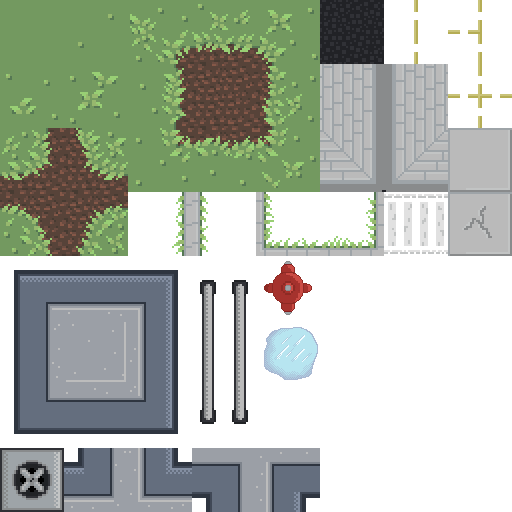
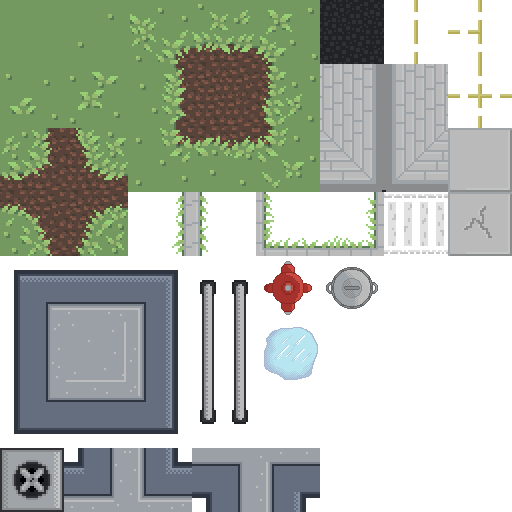
Interactable Objects 1
Laid out the framework for interactable game objects. Still need to implement the actual placement of game entities to match the detected game objects and tie in the player interaction input to the game object actions.

Changed region(s): [[0.625, 0.5, 0.75, 0.625]]

diff --git a/res/maps/Grave Wave City.tsx b/res/maps/Grave Wave City.tsx
@@ -1,0 +1,4 @@
+<?xml version="1.0" encoding="UTF-8"?>
+<tileset version="1.2" tiledversion="1.2.1" name="Grave Wave City" tilewidth="64" tileheight="64" tilecount="64" columns="8">
+ <image source="../images/new/grave_wave_tiles.png" width="512" height="512"/>
+</tileset>

diff --git a/src/com/gzsr/world/Interactions.java b/src/com/gzsr/world/Interactions.java
@@ -1,0 +1,51 @@
+package com.gzsr.world;
+
+import com.gzsr.Globals;
+import com.gzsr.misc.Pair;
+import com.gzsr.objects.crafting.Resources;
+import com.gzsr.objects.items.ResourceDrop;
+import com.gzsr.objects.weapons.Explosion;
+import com.gzsr.states.GameState;
+
+public enum Interactions {
+	NONE((gs, pos, cTime) -> {}),
+
+	ONE_RANDOM_RESOURCE((gs, pos, cTime) -> {
+		// Create a random resource item and spawn it.
+		int resource = Globals.rand.nextInt(6);
+		ResourceDrop drop = new ResourceDrop(Resources.getIconName(resource),
+											 Resources.getName(resource),
+											 resource, 1, pos, cTime);
+		gs.getLevel().addEntity("resource", drop);
+	}),
+
+	RANDOM_RESOURCES((gs, pos, cTime) -> {
+		// Spawn several random resource drops.
+		for(int i = 0; i < (Globals.rand.nextInt(5) + 1); i++) {
+			int resource = Globals.rand.nextInt(6);
+			ResourceDrop drop = new ResourceDrop(Resources.getIconName(resource),
+					 							 Resources.getName(resource),
+					 							 resource, 1, pos, cTime);
+			gs.getLevel().addEntity("resource", drop);
+		}
+	}),
+
+	EXPLOSION((gs, pos, cTime) -> {
+		// Spawn an explosion at this position.
+		double dmg = (Globals.rand.nextInt(50) + 51);
+		Explosion exp = new Explosion(Explosion.Type.NORMAL, "GZS_Explosion",
+				  					  new Pair<Float>(pos), dmg,
+				  					  false, 10.0f, 128.0f, cTime);
+		gs.getLevel().addEntity("explosion", exp);
+	});
+
+	private Interaction action;
+
+	Interactions(Interaction action_) {
+		this.action = action_;
+	}
+
+	public void execute(GameState gs, Pair<Float> pos, long cTime) {
+		action.execute(gs, pos, cTime);
+	}
+}

diff --git a/src/com/gzsr/tmx/TMap.java b/src/com/gzsr/tmx/TMap.java
@@ -11,6 +11,8 @@ import org.newdawn.slick.state.BasicGameState;
 
 import com.gzsr.AssetManager;
 import com.gzsr.entities.Entity;
+import com.gzsr.world.GameObject;
+import com.gzsr.world.Level;
 
 public class TMap implements Entity {
 	private List<TLayer> layers;
@@ -22,6 +24,14 @@ public class TMap implements Entity {
 		} catch(IndexOutOfBoundsException ioo) {
 			return null;
 		}
+	}
+	public TLayer getLayerByName(String name) {
+		for(int i = 0; i < layers.size(); i++) {
+			TLayer layer = layers.get(i);
+			if(layer.getLayerName().equals(name)) return layer;
+		}
+
+		return null;
 	}
 	public void addLayer(TLayer layer) { layers.add(layer); }
 
@@ -103,6 +113,27 @@ public class TMap implements Entity {
 		} catch(SlickException se) {
 			System.err.println("ERROR: Could not construct map!");
 			se.printStackTrace();
+		}
+	}
+
+	/**
+	 * Iterate through all tiles on the objects layer and match TIDs to game objects to be placed in the level.
+	 * @param level The level to place the objects in.
+	 */
+	public void placeObjects(Level level) {
+		TLayer objects = getLayerByName("Objects");
+		if(objects != null) {
+			TTile [][] tiles = objects.getTiles();
+			for(int y = 0; y < mapHeight; y++) {
+				for(int x = 0; x < mapWidth; x++) {
+					TTile tile = tiles[y][x];
+					GameObject.Type type = GameObject.getTypeByTID(tile.getTID());
+					if(type != GameObject.Type.NONE) {
+						// Place game object at this position according to the found type.
+						// TODO: Implement this.
+					}
+				}
+			}
 		}
 	}
 

diff --git a/src/com/gzsr/world/GameObject.java b/src/com/gzsr/world/GameObject.java
@@ -1,0 +1,69 @@
+package com.gzsr.world;
+
+import org.newdawn.slick.Graphics;
+import org.newdawn.slick.state.BasicGameState;
+
+import com.gzsr.entities.Entity;
+import com.gzsr.gfx.Layers;
+
+public class GameObject implements Entity {
+	public enum Type {
+		// TODO: Add to this as more game objects are created.
+		NONE(Interactions.NONE),
+		TRASH_CAN(Interactions.ONE_RANDOM_RESOURCE),
+		FIRE_HYDRANT(Interactions.NONE);
+
+		private Interactions interaction;
+		public Interactions getInteraction() { return interaction; }
+
+		Type(Interactions interaction_) {
+			this.interaction = interaction_;
+		}
+	}
+
+	private Type type;
+	public Interactions getInteraction() { return type.getInteraction(); }
+
+	public GameObject(Type type_) {
+		this.type = type_;
+	}
+
+	@Override
+	public void update(BasicGameState gs, long cTime, int delta) {
+		// Not needed.
+	}
+
+	@Override
+	public void render(Graphics g, long cTime) {
+		// Not needed.
+	}
+
+	public static Type getTypeByTID(int tid) {
+		// TODO: Add to this as more game objects are created.
+		switch(tid) {
+			case 37: return Type.FIRE_HYDRANT;
+			case 38: return Type.TRASH_CAN;
+			default: return Type.NONE;
+		}
+	}
+
+	@Override
+	public String getName() {
+		return "Game Object";
+	}
+
+	@Override
+	public String getTag() {
+		return "object";
+	}
+
+	@Override
+	public String getDescription() {
+		return "Game Object";
+	}
+
+	@Override
+	public int getLayer() {
+		return Layers.NONE.val();
+	}
+}

diff --git a/src/com/gzsr/tmx/TParser.java b/src/com/gzsr/tmx/TParser.java
@@ -34,6 +34,7 @@ public class TParser {
 				Node layer = layers.item(i);
 				if(layer.getNodeType() == Node.ELEMENT_NODE) {
 					Element element = (Element) layer;
+					String name = element.getAttribute("name");
 					NodeList dataList = element.getElementsByTagName("data");
 					for(int j = 0; j < dataList.getLength(); j++) {
 						Node data = dataList.item(j);
@@ -42,7 +43,7 @@ public class TParser {
 							String d = e_data.getTextContent().replace("\n", "");
 							String [] gids = d.split(",");
 
-							TLayer tlay = createLayer(gids, width, height);
+							TLayer tlay = createLayer(name, gids, width, height);
 							map.addLayer(tlay);
 						}
 					}
@@ -59,8 +60,8 @@ public class TParser {
 		return null;
 	}
 
-	private static TLayer createLayer(String [] gids, int mw, int mh) {
-		TLayer layer = new TLayer(mw, mh);
+	private static TLayer createLayer(String layerName, String [] gids, int mw, int mh) {
+		TLayer layer = new TLayer(layerName, mw, mh);
 
 		for(int i = 0; i < gids.length; i++) {
 			long gid = Long.parseLong(gids[i]);

diff --git a/src/com/gzsr/world/Level.java b/src/com/gzsr/world/Level.java
@@ -20,6 +20,7 @@ import com.gzsr.objects.items.Item;
 import com.gzsr.objects.weapons.Explosion;
 import com.gzsr.states.GameState;
 import com.gzsr.tmx.TMap;
+import com.gzsr.tmx.TParser;
 
 public class Level {
 	private TMap map;
@@ -36,8 +37,11 @@ public class Level {
 		} else tagged.add(entity);
 	}
 
-	public Level(TMap map_) {
-		this.map = map_;
+	public Level(String mapName_) {
+		this.map = TParser.load(mapName_);
+		this.map.constructMap();
+		this.map.placeObjects(this);
+
 		this.entities = new ConcurrentHashMap<String, List<Entity>>();
 	}
 

diff --git a/src/com/gzsr/tmx/TLayer.java b/src/com/gzsr/tmx/TLayer.java
@@ -1,6 +1,9 @@
 package com.gzsr.tmx;
 
 public class TLayer {
+	private String name;
+	public String getLayerName() { return name; }
+
 	private TTile [][] tiles;
 	public TTile [][] getTiles() { return tiles; }
 	public TTile getTile(int x, int y) {
@@ -18,7 +21,9 @@ public class TLayer {
 		}
 	}
 
-	public TLayer(int width, int height) {
+	public TLayer(String name_, int width, int height) {
+		this.name = name_;
+
 		tiles = new TTile[height][width];
 		for(int y = 0; y < height; y++) {
 			for(int x = 0; x < width; x++) {

diff --git a/src/com/gzsr/world/Interaction.java b/src/com/gzsr/world/Interaction.java
@@ -1,0 +1,9 @@
+package com.gzsr.world;
+
+import com.gzsr.misc.Pair;
+import com.gzsr.states.GameState;
+
+@FunctionalInterface
+public interface Interaction {
+	void execute(GameState gs, Pair<Float> pos, long cTime);
+}
